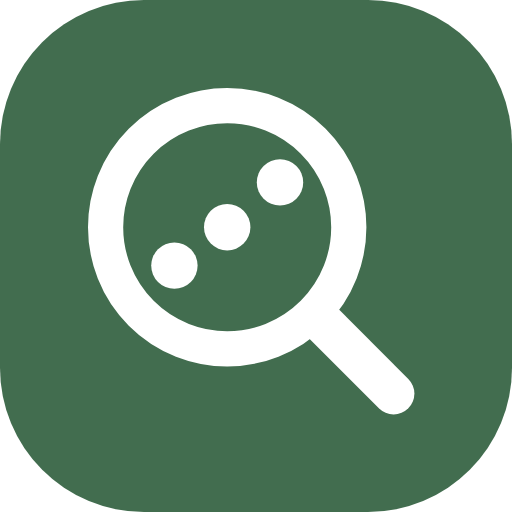
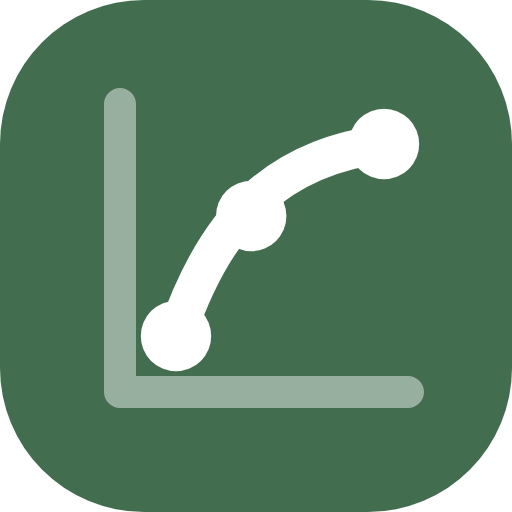
Новый знак: оси, кривая закона и три точки данных вместо лупы

Changed region(s): [[0.1562, 0.1562, 0.8438, 0.8125]]

diff --git a/index.html b/index.html
@@ -11,16 +11,16 @@
 <meta property="og:type" content="website">
 <meta property="og:url" content="https://qaltalab.site/">
 <link rel="canonical" href="https://qaltalab.site/">
-<meta property="og:image" content="https://qaltalab.site/icons/og.png">
+<meta property="og:image" content="https://qaltalab.site/icons/og.png?v=2">
 <meta property="og:image:width" content="1200">
 <meta property="og:image:height" content="630">
 <meta property="og:site_name" content="QaltaLab">
 <meta property="og:locale" content="ru_RU">
 <meta property="og:locale:alternate" content="kk_KZ">
 <meta name="twitter:card" content="summary_large_image">
-<link rel="icon" href="icons/icon.svg" type="image/svg+xml">
-<link rel="icon" href="icons/icon-192.png" sizes="192x192" type="image/png">
-<link rel="apple-touch-icon" href="icons/apple-touch-icon.png">
+<link rel="icon" href="icons/icon.svg?v=2" type="image/svg+xml">
+<link rel="icon" href="icons/icon-192.png?v=2" sizes="192x192" type="image/png">
+<link rel="apple-touch-icon" href="icons/apple-touch-icon.png?v=2">
 
 <link rel="preconnect" href="https://fonts.googleapis.com">
 <link rel="preconnect" href="https://fonts.gstatic.com" crossorigin>
@@ -34,11 +34,11 @@
     <button class="brand" id="home" type="button" aria-label="На главную">
       <svg class="brand__mark" viewBox="0 0 32 32" aria-hidden="true">
         <rect class="mk-bg" width="32" height="32" rx="9"/>
-        <circle class="mk-line" cx="14.2" cy="14.2" r="7.6" fill="none" stroke-width="2.2"/>
-        <circle class="mk-dot" cx="10.9" cy="16.6" r="1.45"/>
-        <circle class="mk-dot" cx="14.2" cy="14.2" r="1.45"/>
-        <circle class="mk-dot" cx="17.5" cy="11.4" r="1.45"/>
-        <path class="mk-line" d="M19.8 19.8 L24.6 24.6" fill="none" stroke-width="2.6" stroke-linecap="round"/>
+        <path class="mk-line mk-axis" d="M7.5 6.5 V24.5 H25.5" fill="none" stroke-width="2" stroke-linecap="round" stroke-linejoin="round"/>
+        <path class="mk-line" d="M11 21 C13.5 13.5, 17.5 9.8, 24 9" fill="none" stroke-width="2.4" stroke-linecap="round"/>
+        <circle class="mk-dot" cx="11" cy="21" r="2.2"/>
+        <circle class="mk-dot" cx="15.7" cy="13.5" r="2.2"/>
+        <circle class="mk-dot" cx="24" cy="9" r="2.2"/>
       </svg>
       <span class="brand__name">QaltaLab</span>
     </button>

diff --git a/css/style.css b/css/style.css
@@ -954,6 +954,7 @@ input[type=range]::-moz-range-thumb { width: 18px; height: 18px; border-radius: 
 .brand__mark .mk-bg { fill: var(--accent); transition: fill var(--mid); }
 .brand__mark .mk-line { stroke: var(--bg); transition: stroke var(--mid); }
 .brand__mark .mk-dot { fill: var(--bg); transition: fill var(--mid); }
+.brand__mark .mk-axis { stroke-opacity: .45; }
 
 /* ===================== рисунок закона на карточке опыта ===================== */
 
